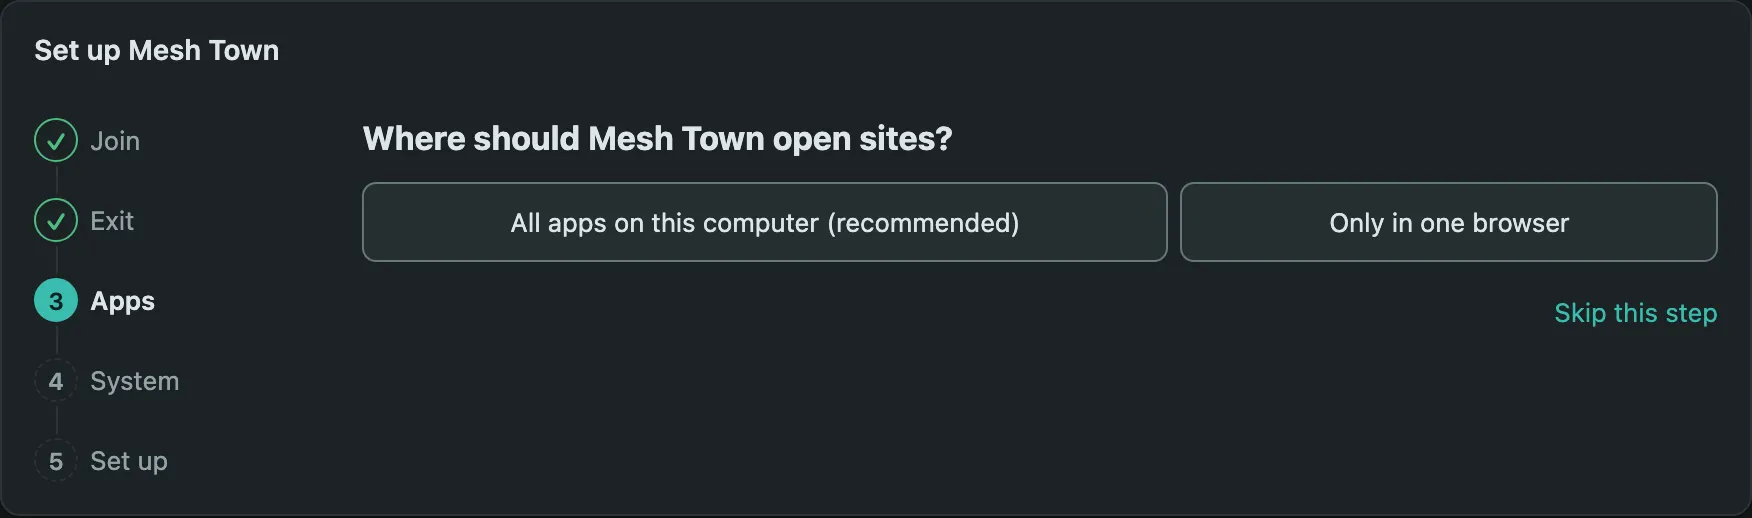
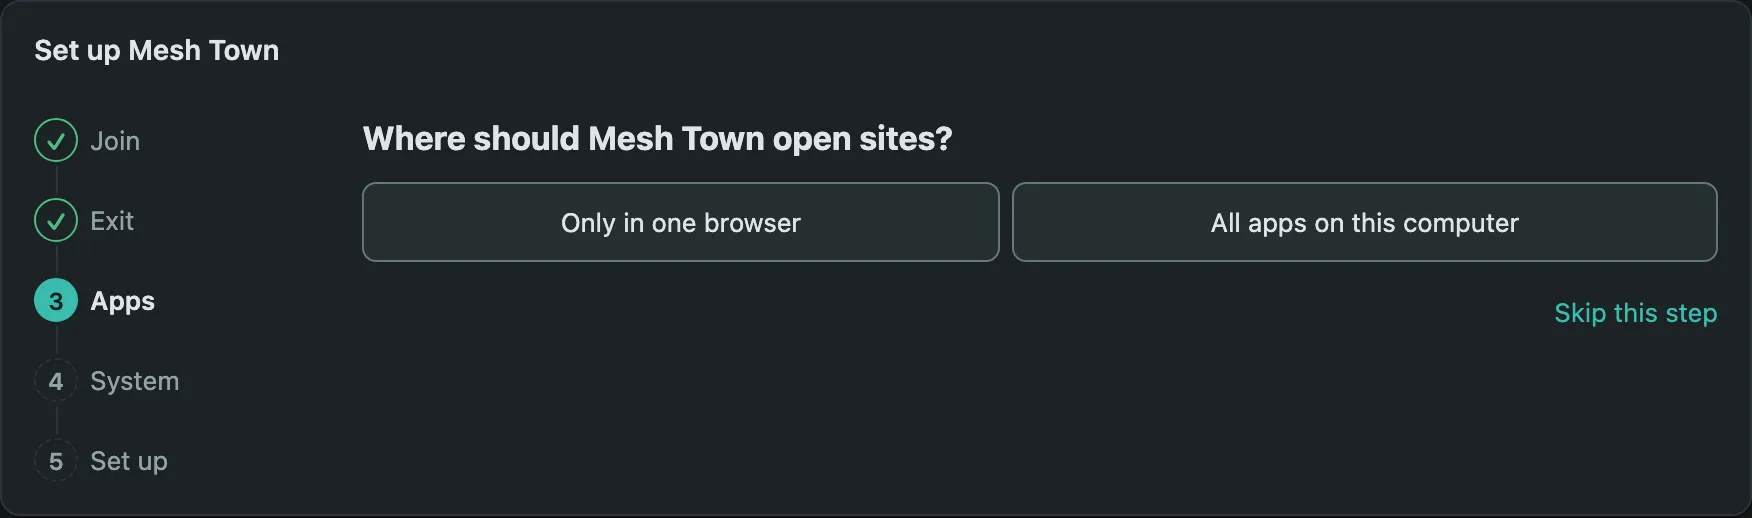
Tutorials: Connect the browser offers Only in one browser first, with a Firefox or other browser choice

diff --git a/tutorials/index.html b/tutorials/index.html
@@ -207,9 +207,61 @@ meshtown</code></pre>
 <li class="tut-step" id="browser" data-tut-step data-nets="invite create" data-oses="windows macos">
 <h2 tabindex="-1"><span class="tut-num" aria-hidden="true"></span><span class="tut-title">Connect the browser</span></h2>
 <div class="tut-body">
-<p>The page asks <span class="ui" data-ui="Where should Mesh Town open sites?">Where should Mesh Town open sites?</span> Choose <span class="ui" data-ui="All apps on this computer (recommended)">All apps on this computer (recommended)</span>.</p>
+<p>The page asks <span class="ui" data-ui="Where should Mesh Town open sites?">Where should Mesh Town open sites?</span> Choose one of the two answers below.</p>
+<figure class="tut-fig" data-fig="browser-scope"><a class="tut-fig-zoom" href="../assets/tutorials/browser-scope-light.webp" title="Show larger"><span class="tut-fig-pic"><picture><source media="(prefers-color-scheme: dark)" srcset="../assets/tutorials/browser-scope-dark.webp"><img src="../assets/tutorials/browser-scope-light.webp" alt="The question Where should Mesh Town open sites and its two answers" width="1752" height="518" loading="lazy"></picture><span class="tut-mark" aria-hidden="true" style="left:32.0%;top:39.4%;width:13.7%;height:7.1%"></span><span class="tut-mark" aria-hidden="true" style="left:69.1%;top:39.4%;width:17.6%;height:7.1%"></span></span></a><figcaption><span class="tut-fig-kind">Screenshot:</span> The question Where should Mesh Town open sites and its two answers</figcaption></figure>
+<div class="var-group" data-var-group="scope" data-var-label="Where Mesh Town opens sites">
+<div class="var-tabs" data-var-tabs hidden>
+<button type="button" class="var-tab" data-var-tab="browser">Only in one browser</button>
+<button type="button" class="var-tab" data-var-tab="system">All apps on this computer</button>
+</div>
+<div class="var-panel" data-var-panel="browser">
+<h3>Only in one browser</h3>
+<p>Choose <span class="ui" data-ui="Only in one browser">Only in one browser</span>. Other programs on the computer keep going to the internet directly. Which browser do you use?</p>
+<div class="var-group" data-var-group="browser" data-var-label="Your browser">
+<div class="var-tabs" data-var-tabs hidden>
+<button type="button" class="var-tab" data-var-tab="firefox">Firefox</button>
+<button type="button" class="var-tab" data-var-tab="other">Safari, Chrome, Edge or another</button>
+</div>
+<div class="var-panel" data-var-panel="firefox">
+<h3>Firefox</h3>
+<p>On the Mesh Town page, choose <span class="ui" data-ui="Firefox">Firefox</span>. Click <span class="ui" data-ui="Copy">Copy</span> next to the setup address <code>http://127.0.0.1:1080/proxy.pac</code>.</p>
+<ol>
+<li>In Firefox, open Settings and type proxy in the search box. Click the Settings button that appears.</li>
+<li>Choose Automatic proxy configuration URL and paste the address into the field below it.</li>
+<li>Click OK.</li>
+</ol>
+<figure class="tut-fig" data-fig="browser-firefox-pac"><a class="tut-fig-zoom" href="../assets/tutorials/browser-firefox-pac.webp" title="Show larger"><span class="tut-fig-pic"><picture><img src="../assets/tutorials/browser-firefox-pac.webp" alt="Firefox Connection Settings with Automatic proxy configuration URL" width="755" height="596" loading="lazy"></picture><span class="tut-mark" aria-hidden="true" style="left:2.4%;top:78.4%;width:34.2%;height:3.9%"></span></span></a><figcaption><span class="tut-fig-kind">Screenshot:</span> Firefox Connection Settings with Automatic proxy configuration URL</figcaption></figure>
+</div>
+<div class="var-panel" data-var-panel="other">
+<h3>Safari, Chrome, Edge or another</h3>
+<p>These browsers have no proxy setting of their own: they always use the setting of the whole computer. So they can work with Mesh Town only for all apps. Choose your browser on the Mesh Town page, then click <span class="ui" data-ui="Set up for all apps">Set up for all apps</span> and follow these steps:</p>
 <p>Click <span class="ui" data-ui="Copy">Copy</span> next to the setup address <code>http://127.0.0.1:1080/proxy.pac</code>.</p>
-<figure class="tut-fig" data-fig="browser-scope"><a class="tut-fig-zoom" href="../assets/tutorials/browser-scope-light.webp" title="Show larger"><span class="tut-fig-pic"><picture><source media="(prefers-color-scheme: dark)" srcset="../assets/tutorials/browser-scope-dark.webp"><img src="../assets/tutorials/browser-scope-light.webp" alt="The question Where should Mesh Town open sites with the setup address" width="1752" height="518" loading="lazy"></picture><span class="tut-mark" aria-hidden="true" style="left:28.8%;top:39.4%;width:30.0%;height:7.1%"></span></span></a><figcaption><span class="tut-fig-kind">Screenshot:</span> The question Where should Mesh Town open sites with the setup address</figcaption></figure>
+<div class="tut-os" data-os-only="windows">
+<h3 class="tut-os-title">Windows</h3>
+<ol>
+<li>Open <span class="ui" data-ui="Settings">Settings</span> → <span class="ui" data-ui="Network &amp; internet">Network &amp; internet</span> → <span class="ui" data-ui="Proxy">Proxy</span>.</li>
+<li>Next to <span class="ui" data-ui="Use setup script">Use setup script</span>, click <span class="ui" data-ui="Set up">Set up</span>.</li>
+<li>Turn on <span class="ui" data-ui="Use setup script">Use setup script</span>, paste the address into <span class="ui" data-ui="Script address">Script address</span> and click <span class="ui" data-ui="Save">Save</span>.</li>
+</ol>
+<figure class="tut-fig" data-fig="browser-w"><a class="tut-fig-zoom" href="../assets/tutorials/browser-w.webp" title="Show larger"><span class="tut-fig-pic"><picture><img src="../assets/tutorials/browser-w.webp" alt="Edit setup script in Windows proxy settings, with the Mesh Town address" width="330" height="312" loading="lazy"></picture><span class="tut-mark" aria-hidden="true" style="left:7.3%;top:48.1%;width:27.3%;height:4.5%"></span><span class="tut-mark" aria-hidden="true" style="left:23.6%;top:84.6%;width:9.7%;height:4.5%"></span></span></a><figcaption><span class="tut-fig-kind">Screenshot:</span> Edit setup script in Windows proxy settings, with the Mesh Town address</figcaption></figure>
+</div>
+<div class="tut-os" data-os-only="macos">
+<h3 class="tut-os-title">macOS</h3>
+<ol>
+<li>Open <span class="ui" data-ui="System Settings">System Settings</span> → <span class="ui" data-ui="Network">Network</span> and choose your connection.</li>
+<li>Click <span class="ui" data-ui="Details…">Details…</span> and open <span class="ui" data-ui="Proxies">Proxies</span>.</li>
+<li>Turn on <span class="ui" data-ui="Automatic Proxy Configuration">Automatic Proxy Configuration</span> and paste the address into the <span class="ui" data-ui="URL">URL</span> field.</li>
+<li>Click <span class="ui" data-ui="OK">OK</span>. If you use both Wi-Fi and a cable (Ethernet), do the same for Ethernet.</li>
+</ol>
+<figure class="tut-fig" data-fig="browser-m"><a class="tut-fig-zoom" href="../assets/tutorials/browser-m.webp" title="Show larger"><span class="tut-fig-pic"><picture><img src="../assets/tutorials/browser-m.webp" alt="macOS Proxies with Automatic Proxy Configuration" width="1300" height="1137" loading="lazy"></picture><span class="tut-mark" aria-hidden="true" style="left:35.4%;top:28.7%;width:25.9%;height:2.5%"></span><span class="tut-mark" aria-hidden="true" style="left:39.7%;top:40.8%;width:4.0%;height:1.9%"></span></span></a><figcaption><span class="tut-fig-kind">Screenshot:</span> macOS Proxies with Automatic Proxy Configuration</figcaption></figure>
+</div>
+</div>
+</div>
+</div>
+<div class="var-panel" data-var-panel="system">
+<h3>All apps on this computer</h3>
+<p>Choose <span class="ui" data-ui="All apps on this computer">All apps on this computer</span>. Then the browser and all other programs go through Mesh Town.</p>
+<p>Click <span class="ui" data-ui="Copy">Copy</span> next to the setup address <code>http://127.0.0.1:1080/proxy.pac</code>.</p>
 <div class="tut-os" data-os-only="windows">
 <h3 class="tut-os-title">Windows</h3>
 <ol>
@@ -232,6 +284,8 @@ meshtown</code></pre>
 <p>Chrome, Edge, Safari, Brave and most other browsers use this system setting: there is nothing to change in them. Close the browser completely and open it again.</p>
 <p>Firefox: open Settings and type proxy in the search box. Open the proxy settings that appear and check that Use system proxy settings is selected (it is selected from the start). Opera: turn off its own VPN, or websites will not go through Mesh Town.</p>
 <figure class="tut-fig" data-fig="browser-firefox"><a class="tut-fig-zoom" href="../assets/tutorials/browser-firefox.webp" title="Show larger"><span class="tut-fig-pic"><picture><img src="../assets/tutorials/browser-firefox.webp" alt="Firefox Connection Settings" width="755" height="596" loading="lazy"></picture><span class="tut-mark" aria-hidden="true" style="left:2.4%;top:29.8%;width:26.5%;height:3.9%"></span></span></a><figcaption><span class="tut-fig-kind">Screenshot:</span> Firefox Connection Settings</figcaption></figure>
+</div>
+</div>
 <p>Then choose what happens <span class="ui" data-ui="When Mesh Town is off">When Mesh Town is off</span>: <span class="ui" data-ui="Open sites directly">Open sites directly</span> or <span class="ui" data-ui="Keep sites closed">Keep sites closed</span>.</p>
 <p>Check it: open <a href="http://meshtown/">http://meshtown/</a>. It says “This browser is connected to Mesh Town” and lists the ports shared with you.</p>
 </div>

diff --git a/assets/js/variants.js b/assets/js/variants.js
@@ -17,16 +17,22 @@
     return Array.prototype.filter.call(all, function (g) { return g.getAttribute("data-var-group") === name; });
   }
 
+  // A group's own tabs and panels, not those of a group nested inside one of its panels.
+  function own(group, selector) {
+    var all = group.querySelectorAll(selector);
+    return Array.prototype.filter.call(all, function (el) { return el.closest("[data-var-group]") === group; });
+  }
+
   function apply(group, key, focus) {
-    var tabs = group.querySelectorAll("[data-var-tab]");
-    var panels = group.querySelectorAll("[data-var-panel]");
-    Array.prototype.forEach.call(tabs, function (tab) {
+    var tabs = own(group, "[data-var-tab]");
+    var panels = own(group, "[data-var-panel]");
+    tabs.forEach( function (tab) {
       var on = tab.getAttribute("data-var-tab") === key;
       tab.setAttribute("aria-selected", on ? "true" : "false");
       tab.setAttribute("tabindex", on ? "0" : "-1");
       if (on && focus) { tab.focus(); }
     });
-    Array.prototype.forEach.call(panels, function (panel) {
+    panels.forEach(function (panel) {
       panel.hidden = panel.getAttribute("data-var-panel") !== key;
     });
   }
@@ -50,11 +56,11 @@
 
   function setup(group) {
     var id = "var" + (counter += 1);
-    var bar = group.querySelector("[data-var-tabs]");
-    var tabs = Array.prototype.slice.call(group.querySelectorAll("[data-var-tab]"));
+    var bar = own(group, "[data-var-tabs]")[0];
+    var tabs = own(group, "[data-var-tab]");
     var name = group.getAttribute("data-var-group");
     bar.setAttribute("role", "tablist");
-    bar.setAttribute("aria-label", "Installation method");
+    bar.setAttribute("aria-label", group.getAttribute("data-var-label") || "Installation method");
     bar.hidden = false;
     tabs.forEach(function (tab) {
       var key = tab.getAttribute("data-var-tab");
@@ -64,7 +70,7 @@
       tab.addEventListener("click", function () { select(name, key, null); });
       tab.addEventListener("keydown", function (e) { onKey(e, group, tabs); });
     });
-    Array.prototype.forEach.call(group.querySelectorAll("[data-var-panel]"), function (panel) {
+    own(group, "[data-var-panel]").forEach(function (panel) {
       var key = panel.getAttribute("data-var-panel");
       var h = panel.querySelector("h3, h4");
       panel.setAttribute("role", "tabpanel");

diff --git a/tools/tutorials_data.py b/tools/tutorials_data.py
@@ -27,10 +27,11 @@ FIGS = {
     "create-form": ("The Create a new network form with the name family", True),
     "invite-start": ("The Invite a member button and the optional For whom field", True),
     "invite-ready": ("The ready invite with Send as text, Send as QR code and the invite itself", True),
-    "browser-scope": ("The question Where should Mesh Town open sites with the setup address", True),
+    "browser-scope": ("The question Where should Mesh Town open sites and its two answers", True),
     "browser-w": ("Edit setup script in Windows proxy settings, with the Mesh Town address", False),
     "browser-m": ("macOS Proxies with Automatic Proxy Configuration", False),
     "browser-firefox": ("Firefox Connection Settings", False),
+    "browser-firefox-pac": ("Firefox Connection Settings with Automatic proxy configuration URL", False),
     "exit-choose": ("The Choose an exit screen listing office-pc, nas and Directly, without an exit, and this computer's name laptop", True),
     "exit-tray": ("The Exit via menu in the macOS menu bar", False),
     "exit-status": ("The Home tab panel showing how sites open right now", True),
@@ -55,6 +56,36 @@ PAGE = {
 BROWSERS = [
     ("p", "Chrome, Edge, Safari, Brave and most other browsers use this system setting: there is nothing to change in them. Close the browser completely and open it again."),
     ("p", "Firefox: open Settings and type proxy in the search box. Open the proxy settings that appear and check that Use system proxy settings is selected (it is selected from the start). Opera: turn off its own VPN, or websites will not go through Mesh Town."),
+]
+COPY = ("p", "Click [[Copy]] next to the setup address `http://127.0.0.1:1080/proxy.pac`.")
+SYSTEM_STEPS = [
+    COPY,
+    ("os", ["windows"], [
+        ("ol", [
+            "Open [[Settings]] → [[Network & internet]] → [[Proxy]].",
+            "Next to [[Use setup script]], click [[Set up]].",
+            "Turn on [[Use setup script]], paste the address into [[Script address]] and click [[Save]].",
+        ]),
+        ("fig", "browser-w"),
+    ]),
+    ("os", ["macos"], [
+        ("ol", [
+            "Open [[System Settings]] → [[Network]] and choose your connection.",
+            "Click [[Details…]] and open [[Proxies]].",
+            "Turn on [[Automatic Proxy Configuration]] and paste the address into the [[URL]] field.",
+            "Click [[OK]]. If you use both Wi-Fi and a cable (Ethernet), do the same for Ethernet.",
+        ]),
+        ("fig", "browser-m"),
+    ]),
+]
+FIREFOX_ONLY = [
+    ("p", "On the Mesh Town page, choose [[Firefox]]. " + COPY[1]),
+    ("ol", [
+        "In Firefox, open Settings and type proxy in the search box. Click the Settings button that appears.",
+        "Choose Automatic proxy configuration URL and paste the address into the field below it.",
+        "Click OK.",
+    ]),
+    ("fig", "browser-firefox-pac"),
 ]
 CHECK = ("p", "Check it: open [http://meshtown/](http://meshtown/). It says “This browser is connected to Mesh Town” and lists the ports shared with you.")
 
@@ -151,29 +182,22 @@ STEPS = [
         ("fig", "android-connected"),
     ]),
     ("browser", BOTH, DESKTOP, "Connect the browser", "", [
-        ("p", "The page asks [[Where should Mesh Town open sites?]] Choose [[All apps on this computer (recommended)]]."),
-        ("p", "Click [[Copy]] next to the setup address `http://127.0.0.1:1080/proxy.pac`."),
+        ("p", "The page asks [[Where should Mesh Town open sites?]] Choose one of the two answers below."),
         ("fig", "browser-scope"),
-        ("os", ["windows"], [
-            ("ol", [
-                "Open [[Settings]] → [[Network & internet]] → [[Proxy]].",
-                "Next to [[Use setup script]], click [[Set up]].",
-                "Turn on [[Use setup script]], paste the address into [[Script address]] and click [[Save]].",
+        ("tabs", ("scope", [
+            ("browser", "Only in one browser", [
+                ("p", "Choose [[Only in one browser]]. Other programs on the computer keep going to the internet directly. Which browser do you use?"),
+                ("tabs", ("browser", [
+                    ("firefox", "Firefox", FIREFOX_ONLY),
+                    ("other", "Safari, Chrome, Edge or another", [
+                        ("p", "These browsers have no proxy setting of their own: they always use the setting of the whole computer. So they can work with Mesh Town only for all apps. Choose your browser on the Mesh Town page, then click [[Set up for all apps]] and follow these steps:"),
+                    ] + SYSTEM_STEPS),
+                ], "Your browser")),
             ]),
-            ("fig", "browser-w"),
-        ]),
-        ("os", ["macos"], [
-            ("ol", [
-                "Open [[System Settings]] → [[Network]] and choose your connection.",
-                "Click [[Details…]] and open [[Proxies]].",
-                "Turn on [[Automatic Proxy Configuration]] and paste the address into the [[URL]] field.",
-                "Click [[OK]]. If you use both Wi-Fi and a cable (Ethernet), do the same for Ethernet.",
-            ]),
-            ("fig", "browser-m"),
-        ]),
-        BROWSERS[0],
-        BROWSERS[1],
-        ("fig", "browser-firefox"),
+            ("system", "All apps on this computer", [
+                ("p", "Choose [[All apps on this computer]]. Then the browser and all other programs go through Mesh Town."),
+            ] + SYSTEM_STEPS + [BROWSERS[0], BROWSERS[1], ("fig", "browser-firefox")]),
+        ], "Where Mesh Town opens sites")),
         ("p", "Then choose what happens [[When Mesh Town is off]]: [[Open sites directly]] or [[Keep sites closed]]."),
         CHECK,
     ]),

diff --git a/tools/site_chrome.py b/tools/site_chrome.py
@@ -48,17 +48,18 @@ def block(b, ext=None):
     if kind == "ol":
         return "<ol>\n" + "\n".join("<li>%s</li>" % inline(x) for x in val) + "\n</ol>"
     if kind == "tabs":
-        return tabs(val[0], val[1], ext)
+        return tabs(val[0], val[1], ext, val[2] if len(val) > 2 else "")
     raise ValueError(kind)
 
 
-def tabs(group, variants, ext=None):
+def tabs(group, variants, ext=None, label=""):
     bar = "\n".join('<button type="button" class="var-tab" data-var-tab="%s">%s</button>'
                     % (k, html.escape(l)) for k, l, _ in variants)
     panels = "\n".join('<div class="var-panel" data-var-panel="%s">\n<h3>%s</h3>\n%s\n</div>'
                        % (k, html.escape(l), "\n".join(block(b, ext) for b in bs)) for k, l, bs in variants)
-    return ('<div class="var-group" data-var-group="%s">\n<div class="var-tabs" data-var-tabs hidden>\n%s\n</div>\n%s\n</div>'
-            % (group, bar, panels))
+    aria = ' data-var-label="%s"' % html.escape(label) if label else ""
+    return ('<div class="var-group" data-var-group="%s"%s>\n<div class="var-tabs" data-var-tabs hidden>\n%s\n</div>\n%s\n</div>'
+            % (group, aria, bar, panels))
 
 
 def head(title, desc, canon, up, css=(), js_class=False):

diff --git a/tools/tutorials_marks.py b/tools/tutorials_marks.py
@@ -19,10 +19,11 @@ MARKS = {
     "create-form": [(0.222, 0.894, 0.109, 0.033)],
     "invite-start": [(0.300, 0.350, 0.425, 0.150)],
     "invite-ready": [(0.390, 0.331, 0.287, 0.037)],
-    "browser-scope": [(0.288, 0.394, 0.300, 0.071)],
+    "browser-scope": [(0.320, 0.394, 0.137, 0.071), (0.691, 0.394, 0.176, 0.071)],
     "browser-w": [(0.073, 0.481, 0.273, 0.045), (0.236, 0.846, 0.097, 0.045)],
     "browser-m": [(0.354, 0.287, 0.259, 0.025), (0.397, 0.408, 0.040, 0.019)],
     "browser-firefox": [(0.024, 0.298, 0.265, 0.039)],
+    "browser-firefox-pac": [(0.024, 0.784, 0.342, 0.039)],
     "exit-choose": [(0.234, 0.318, 0.075, 0.024), (0.930, 0.936, 0.035, 0.019)],
     "exit-tray": [(0.301, 0.259, 0.086, 0.054)],
     "exit-status": [(0.169, 0.292, 0.337, 0.124)],
